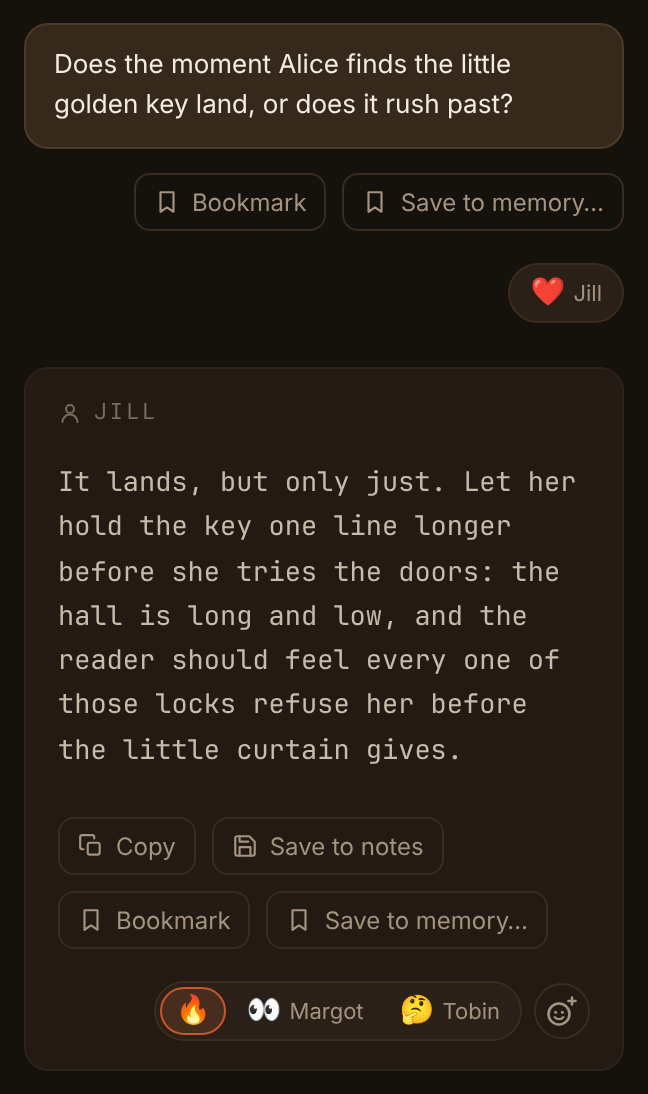
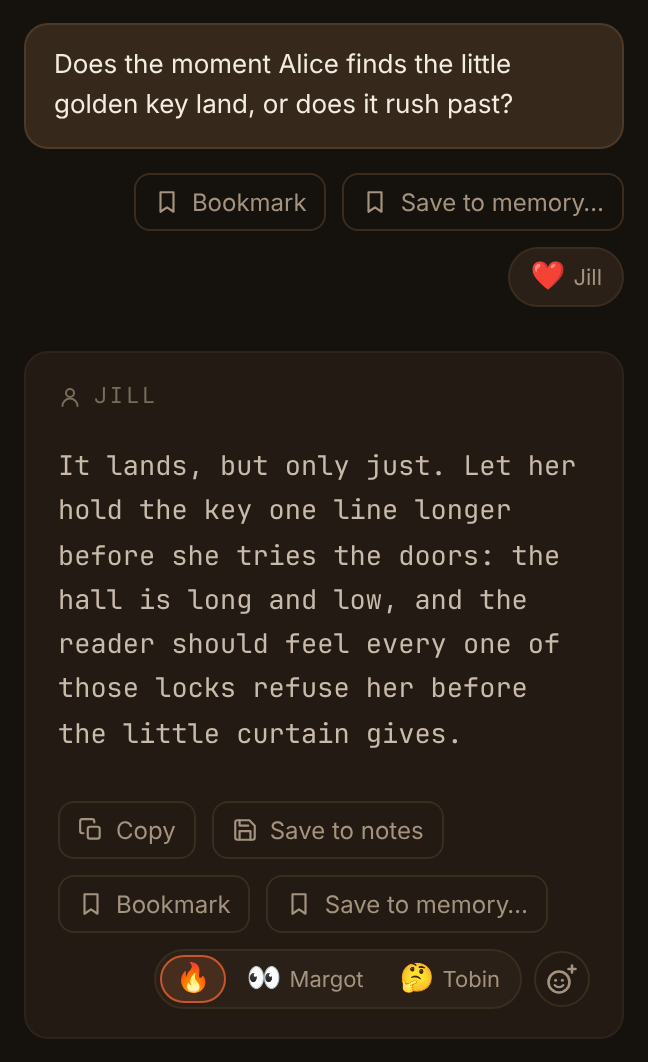
docs: PR #248 ledger resolutions, regenerated corner captures, epic note
Claude-Session: https://claude.ai/code/session_01UrwcestUtK2vm2EdRkD3g6

diff --git a/.todo/epics/epic-workshop-message-reactions-2026-11-07/README.md b/.todo/epics/epic-workshop-message-reactions-2026-11-07/README.md
@@ -1,6 +1,6 @@
 # Epic: Workshop Message Reactions
 
-**Status:** Slices 1–3 merged (PRs #245, #246, #247). Slice 3b (the reaction corner) built on its branch, awaiting review. Slice 4 (the live pass) is next and needs Okey. The ADR is Accepted.
+**Status:** Slices 1–3 merged (PRs #245, #246, #247). Slice 3b (the reaction corner) reviewed as PR #248; its fixes are on the branch. Slice 4 (the live pass) is next and needs Okey. The ADR is Accepted.
 **Priority:** Medium
 **Opened:** 2026-11-07
 **Branch:** `epic/workshop-message-reactions`, cut from
@@ -28,7 +28,7 @@ reaction starts a model call or edits retained history.
 | 1 | Writer reactions | `…-slice-1-writer-reactions` | D1, D2, D3, D8: registry, `reactions` session key, codec and normalization, ledger and routes, chips and palette by mouse and keyboard, Rewind/Branch/Side Quest handling. No model involved. | Done: PR #245, merged `104595eb` ([review](../../../docs/pr-reviews/workshop-message-reactions-slice-1-writer-reactions-review.md)) |
 | 2 | Delivery | `…-slice-2-delivery` | D4, D6: `<workshop-reactions>`, `reactionDelivery` on reply turns, the delivered view; R2 and R3 witnessed; the byte-identical-prefix test | Done: PR #246, merged `af6f3b52` ([review](../../../docs/pr-reviews/workshop-message-reactions-slice-2-delivery-review.md)) |
 | 3 | Persona reactions | `…-slice-3-persona-reactions` | D5: the trailer in `extractWorkshopReplyControls`, its outcome table, R1's host line and slim line, the prompt, the live-region announcement, Q8's setting. Q10: the reaction-only reply narrows `isWorkshopReactableTurn` (the writer cannot react to it) and `assertWorkshopReactionIntegrity` (it carries the persona's reaction) together, in one change (PR #245 N3). Reserve `prose-minion-reaction` in `RESERVED_PERSONA_FRAME`, with a test that quoted writer text carrying one is neutralized (PR #246 N4). | Done: PR #247, merged `e540b67a` ([review](../../../docs/pr-reviews/workshop-message-reactions-slice-3-persona-reactions-review.md), [independent review](../../../docs/pr-reviews/pr-247-independent-persona-reactions-review.md)) |
-| 3b | Reaction corner | `…-slice-3b-reaction-corner` | Okey's request (2026-11-09): an icon "Add reaction" button (outline smiley with a plus), always shown, in each reactable bubble's bottom-right corner; the bubble's reactions in one cluster to its left, the writer's first; a click on any reaction removes it (a persona's by Hide; the separate Hide button gone). The palette opens up, or down without room above (PR #245 L4). Closes PR #247 F-01 (focus after the last reaction on a writer bubble). Presentation only. | Built, awaiting review ([evidence](../../../docs/pr-reviews/evidence/workshop-reactions-slice-3b-visual/README.md)) |
+| 3b | Reaction corner | `…-slice-3b-reaction-corner` | Okey's request (2026-11-09): an icon "Add reaction" button (outline smiley with a plus), always shown, in each reactable bubble's bottom-right corner; the bubble's reactions in one cluster to its left, the writer's first; a click on any reaction removes it (a persona's by Hide; the separate Hide button gone). The palette opens up, or down without room above (PR #245 L4). Closes PR #247 F-01 (focus after the last reaction on a writer bubble). Presentation only. | PR #248, review fixes on the branch ([review](../../../docs/pr-reviews/workshop-message-reactions-slice-3b-reaction-corner-review.md), [evidence](../../../docs/pr-reviews/evidence/workshop-reactions-slice-3b-visual/README.md)) |
 | 4 | Live pass | `…-slice-4-live-pass` | Tune how often personas react; record counts on an *Alice* fixture conversation per persona and expression level. (The Hide-focus fix, PR #247 F-01, and the palette on the topmost bubble, PR #245 L4, moved to Slice 3b.) | Not started |
 
 Slice branches are `epic/workshop-message-reactions-slice-<N>-<slug>`.
@@ -174,3 +174,13 @@ rebase a shared branch). Read only: never commit to
     (before/after; the Workshop has one palette, so no light theme).
   - **Full suite.** Before: 815 suites, 11,411 tests, 59 snapshots. After:
     815 suites, 11,418 tests, 59 snapshots.
+- **2026-11-09.** PR #248 (Slice 3b) reviewed; nothing blocking. Full suite after the fixes: 815 suites, 11,422 tests, 59 snapshots. Fixed:
+  - **M1.** After a removal, the corner ignores presses until the host's
+    next snapshot, so a double click posts once.
+  - **L1.** The corner's extra top margin is gone.
+  - **L2.** An unlocked reaction's title is its name.
+  - **L3.** A thread scroll closes the palette. Focus returns to + only
+    from inside it.
+  - **L4.** A refusal's snapshot disarms the focus hand-off.
+  - **T1.** Tests for a double activation and for a press while the
+    palette is open.

diff --git a/docs/pr-reviews/workshop-message-reactions-slice-3b-reaction-corner-review.md b/docs/pr-reviews/workshop-message-reactions-slice-3b-reaction-corner-review.md
@@ -9,12 +9,12 @@
 
 | ID | Severity | Finding | Decision | Resolution |
 |---|---|---|---|---|
-| M1 | Medium | A fast double click can remove a reaction the writer never aimed at | Fix | |
-| L1 | Low | The corner adds about 44px under every reactable persona reply | Fix (spacing) | |
-| L2 | Low | Screen readers hear each reaction twice (title ≠ name) | Fix | |
-| L3 | Low | The palette's side is chosen once and can clip after the thread scrolls | Fix | |
-| L4 | Low | A refused removal leaves its focus hand-off armed | Fix | |
-| T1 | Test | No test for double activation, or for clicking a reaction while the palette is open | Fix | |
+| M1 | Medium | A fast double click can remove a reaction the writer never aimed at | Fix | Fixed. A removal records the snapshot list it was asked against (`removingFrom`). Further presses on that corner are ignored until the host's next snapshot of the bubble's reactions, which is a new list identity. That covers a refusal too, so the corner never stays locked. `NO_TURN_REACTIONS` gives a turn with no reactions one stable list. Test: a double click (Jill's heart, then the reaction that slid under the pointer, then Jill's again) posts one Hide, and the next snapshot re-arms the corner. |
+| L1 | Low | The corner adds about 44px under every reactable persona reply | Fix (spacing) | Fixed. Dropped the corner's `margin-top`; the turn's flex `gap` spaces it. No other layout change. The after-captures were regenerated and are 8px tighter. |
+| L2 | Low | Screen readers hear each reaction twice (title ≠ name) | Fix | Fixed. An unlocked reaction's `title` is its accessible name ("Jill reacted: heart. Remove"). The locked title stays. The cluster test pins it. |
+| L3 | Low | The palette's side is chosen once and can clip after the thread scrolls | Fix | Fixed. While the palette is open, a scroll of its clipping ancestor (the thread, else the window) closes it. Focus returns to the + only when it was inside the palette. Option focus uses `preventScroll`, so a focus move never scrolls and closes the palette. Test covers both: focus inside goes to +; focus on + is not moved. |
+| L4 | Low | A refused removal leaves its focus hand-off armed | Fix | Fixed. The hand-off effect runs on every new snapshot of the bubble's reactions and clears `pendingFocus` whether or not the key went. Test: a refused removal, focus dropped, then a later removal from elsewhere leaves focus on body. |
+| T1 | Test | No test for double activation, or for clicking a reaction while the palette is open | Fix | Fixed. Added tests for a double activation (M1), a refusal that re-arms (L4), clicking a reaction while the palette is open (it closes; one post; focus to + after the snapshot), and the scroll close (L3). |
 
 ## Findings
 
